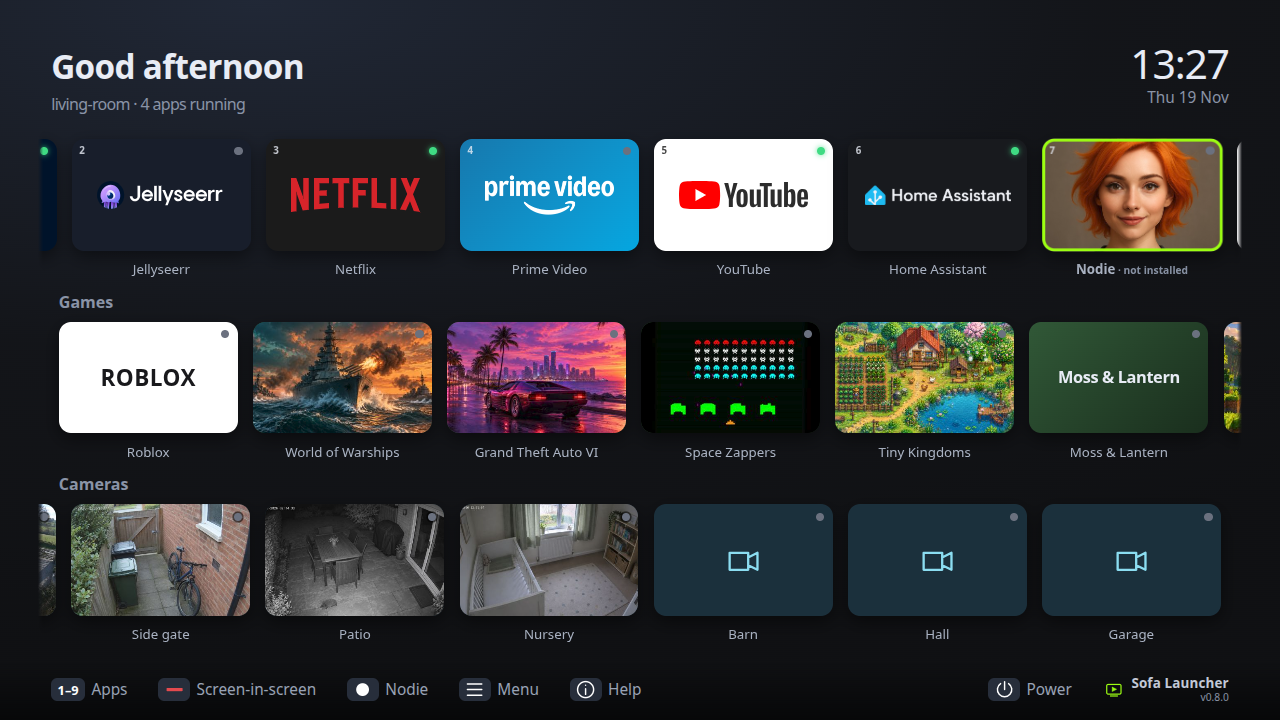
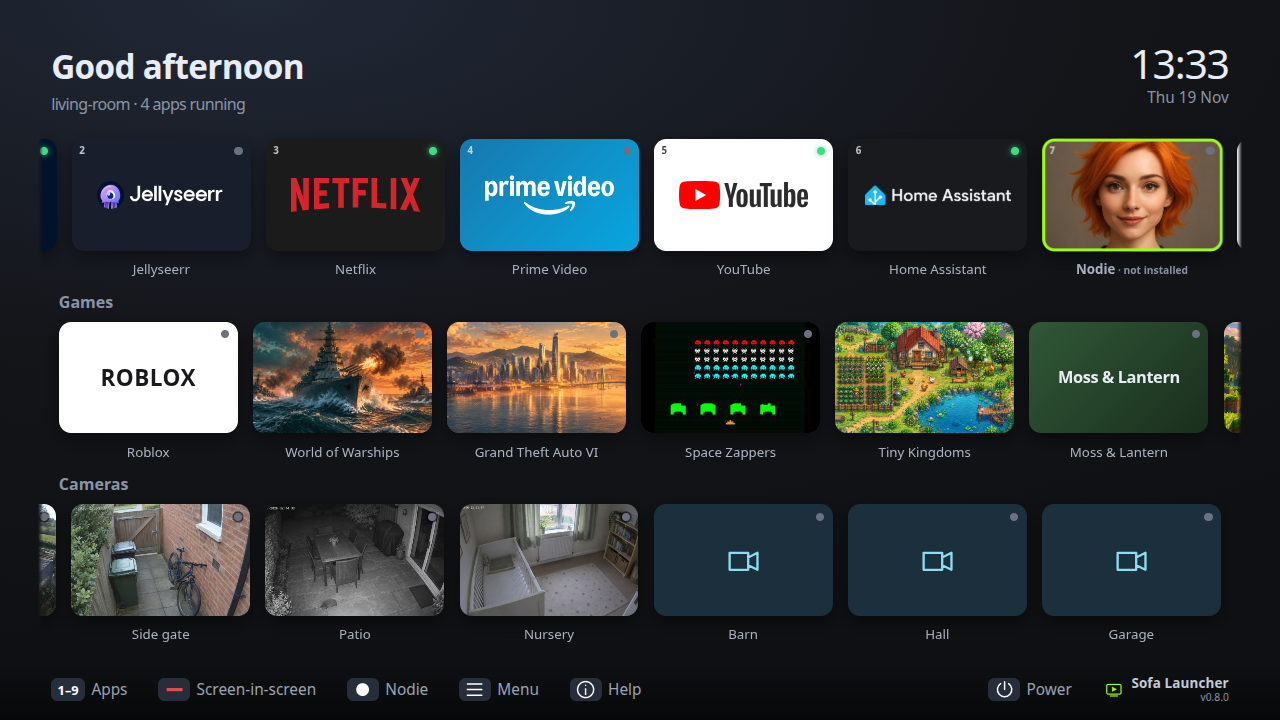
Demo pictures: fixes from review
- Stop tracking the node_modules link from this working copy; ignore a link too
- A new city picture without a recognisable car; notes say what each picture
  is, in whose style, and whose the Space Zappers banner is
- Only the three screenshots that really changed are replaced
- The screenshot self-check puts the rows back before the picture is taken
  (the Games row was sometimes captured scrolled to its end)
- A test that every demo picture named exists

Claude-Session: https://claude.ai/code/session_01FYobGTgadq6BHtfAUaqb4P

Changed region(s): [[0.3438, 0.4278, 0.5, 0.6111], [0.9375, 0.0611, 0.9688, 0.1222]]

diff --git a/tests/demo-art.test.ts b/tests/demo-art.test.ts
@@ -1,0 +1,25 @@
+import { describe, expect, it } from 'vitest';
+import { existsSync } from 'node:fs';
+import { join } from 'node:path';
+import { DEMO_CAMERA_ART, DEMO_STEAM_GAMES, demoCameraHasStill } from '../src/main/demo';
+
+const folder = join(__dirname, '..', 'docs', 'demo-art');
+
+describe('demo pictures', () => {
+  it('has a file for every game picture named in the demo', () => {
+    const named = DEMO_STEAM_GAMES.flatMap((g) => (g.art ? [g.art] : []));
+    expect(named.length).toBeGreaterThan(0);
+    for (const file of named) expect(existsSync(join(folder, file)), file).toBe(true);
+  });
+
+  it('has a file for every camera picture, and only for cameras that show one', () => {
+    for (const [index, file] of Object.entries(DEMO_CAMERA_ART)) {
+      expect(existsSync(join(folder, file)), file).toBe(true);
+      expect(demoCameraHasStill(`camera-demo-${index}`), `camera ${index}`).toBe(true);
+    }
+  });
+
+  it('keeps a made-up game first-played and last, which the screenshot checks rely on', () => {
+    expect(DEMO_STEAM_GAMES.at(-1)?.name).toBe('Paper Planets');
+  });
+});

diff --git a/src/main/index.ts b/src/main/index.ts
@@ -1484,6 +1484,9 @@ async function runScreenshot(path: string): Promise<void> {
     if (!await focused('app-row', 'Prime Video')) throw new Error('Up must move within the Apps grid');
     for (let i = 0; i < 6; i++) await press('ArrowLeft');
     if (!await focused('app-row', 'Jellyfin')) throw new Error('Left must reach the first app');
+    // Leave the screen as it started for the picture: the walk above scrolled the Games row to its end.
+    await js("document.querySelectorAll('.row').forEach((row) => { row.scrollLeft = 0; })");
+    await new Promise(r => setTimeout(r, 150));
     for (const [selector, what] of [['.app-row', 'Apps'], ['.game-row', 'Games']]) {
       if (!await js(`(() => { const r = document.querySelector('${selector}').getBoundingClientRect(); const f = document.querySelector('footer').getBoundingClientRect(); return r.top >= 0 && r.bottom <= f.top + 1; })()`)) throw new Error(`${what} must sit above the footer, unclipped`);
     }

diff --git a/src/main/demo.ts b/src/main/demo.ts
@@ -28,8 +28,9 @@ export function screenshotConfig(theme: Theme = 'knowall', cameras: boolean | nu
   return config;
 }
 
-/** Fictional Steam games for screenshots (`--demo-games`). Art is generated, never real cover art. */
 /**
+ * Stand-in Steam games for the Games row in demo mode. Some carry real games' names so the
+ * row looks like a real living room, but none carries a real game's cover art.
  * `art`: a picture in docs/demo-art (see its README: made for this project, except Space
  * Zappers' own banner). The repository has them; the packaged app does not, and falls back to
  * `hue` (a gradient) or the name.

diff --git a/docs/demo-art/README.md b/docs/demo-art/README.md
@@ -7,10 +7,14 @@ the package does not include this folder, and demo mode then draws plain placeho
   patio at night, nursery), generated for this project with an OpenAI image model. They show
   no real place and no people.
 - `game-warships.jpg`, `game-city.jpg`, `game-farm.jpg`, `game-blocks.jpg`: original pictures
-  generated for this project with an OpenAI image model. They are **not** the artwork of any
-  game. In the demo two of them stand behind the names of real games (World of Warships,
-  Grand Theft Auto VI) so the Games row looks like a real living room; those names are their
-  owners' trademarks, used only to say which game a tile would open. On a real install the
-  launcher shows Steam's own header picture for each game instead.
-- `game-space-zappers.jpg`: the banner of [Space Zappers](https://www.spacezappers.com/),
-  the game's own picture from its site, included at the maintainer's request.
+  generated for this project with an OpenAI image model, in the general style of their genres
+  (naval action, big-city open world, farming, block building). They are **not** the artwork
+  of any game and show no game's characters or logos. In the demo two of them stand behind the
+  names of real games (World of Warships, Grand Theft Auto VI) so the Games row looks like a
+  real living room; those names are their owners' trademarks, used only to say which game a
+  tile would open, and no connection with or endorsement by those owners is implied. On a real
+  install the launcher shows Steam's own header picture for each game instead.
+- `game-space-zappers.jpg`: the banner of [Space Zappers](https://www.spacezappers.com/)
+  (`og-image.png` on its site), fitted whole on black. It is that game's own picture, not ours:
+  it is included at the request of this project's maintainer, who contributes to Space
+  Zappers. It will be removed if the game's author asks.

diff --git a/src/renderer/src/assets/ATTRIBUTION.md b/src/renderer/src/assets/ATTRIBUTION.md
@@ -17,3 +17,5 @@ Retrieved 9 November 2026. Assets are bundled locally so drawing a tile does not
 - `containers/*.svg`: icons for the Docker tile and the containers view, from [dashboard-icons](https://github.com/homarr-labs/dashboard-icons) (Apache License 2.0), downloaded from `https://cdn.jsdelivr.net/gh/homarr-labs/dashboard-icons/svg/<name>.svg` on 10 November 2026 and checked to contain no scripts or external references: bitcoin, crowdsec, docker, flaresolverr, frigate, gluetun, home-assistant, jellyfin, jellyseerr, lnbits, mariadb, mosquitto, neo4j, nextcloud, nginx, nginx-proxy-manager, ollama, open-webui, postgres, prowlarr, radarr, redis, sonarr, transmission, watchtower, wireguard, zigbee2mqtt. The logos they depict remain trademarks of their owners.
 
 - `donate-lightning.svg`: a QR code made for this project (no third-party artwork). It encodes `LIGHTNING:` followed by the LNURL-pay form of the Lightning address in `src/shared/project.ts`, that is the bech32 (`lnurl`) encoding of `https://<host>/.well-known/lnurlp/<name>`, in upper case, at error-correction level M. If the address changes, the picture must be made again.
+
+- Demo pictures for screenshots are not in this folder and are not shipped with the app: see `docs/demo-art/README.md` for where each comes from.
